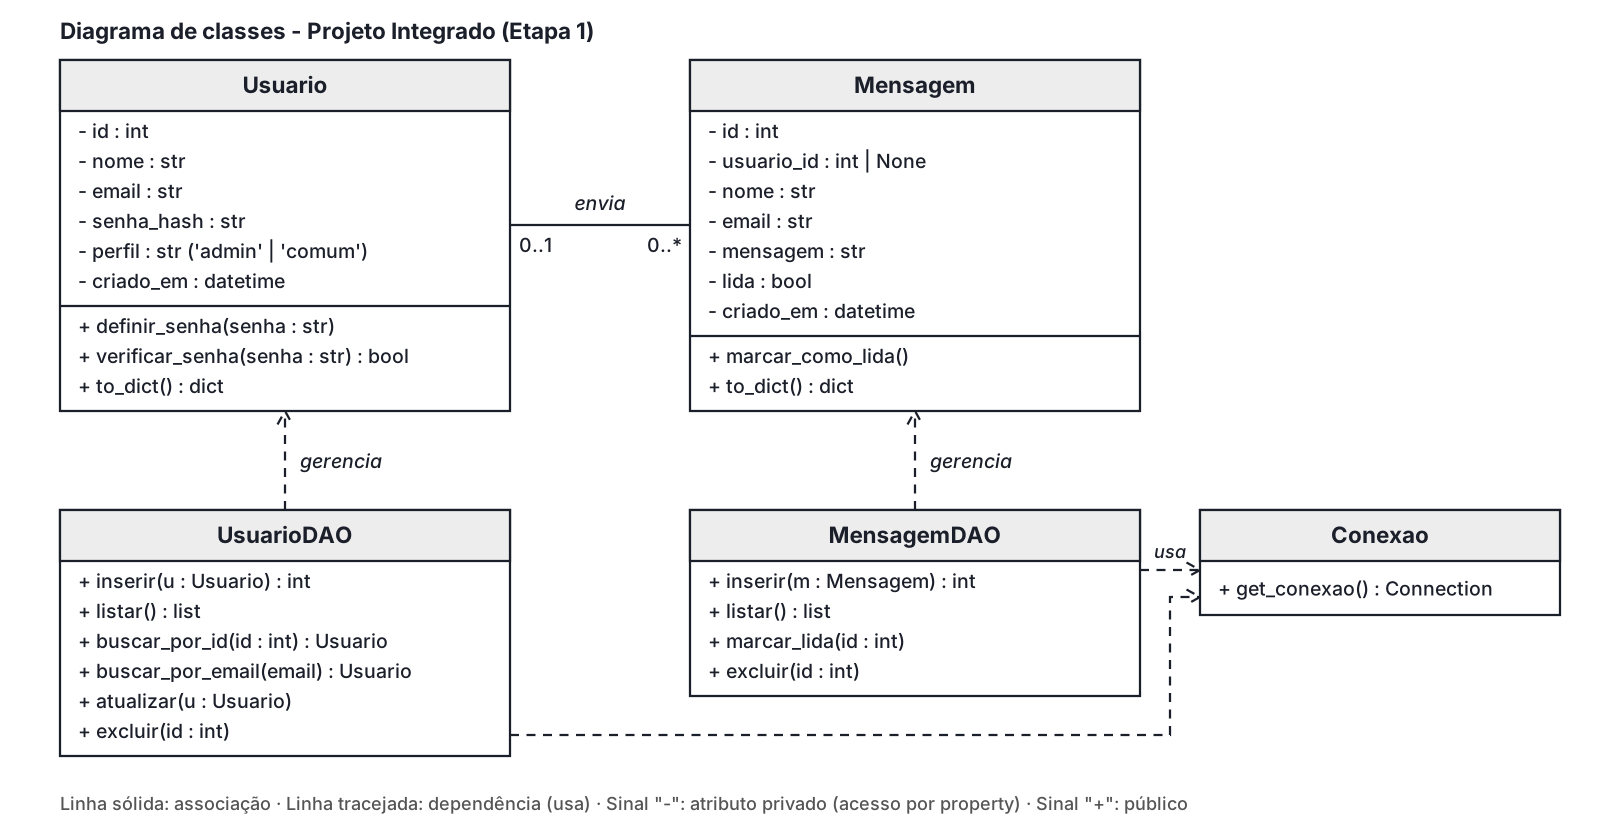
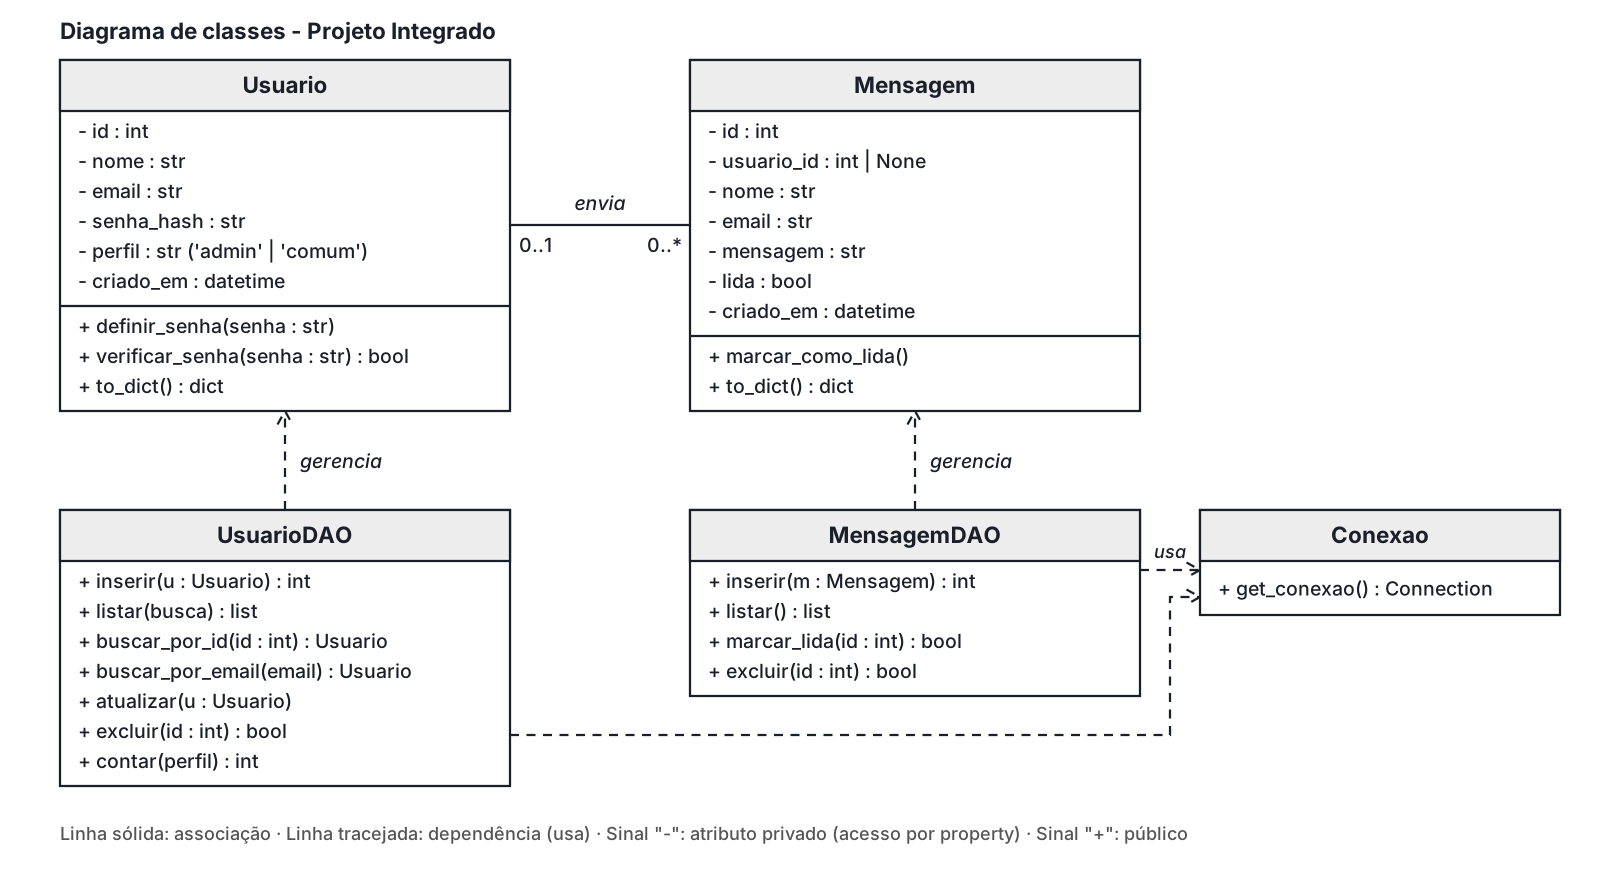
Atualiza UML e README

diff --git a/README.md b/README.md
@@ -1,15 +1,16 @@
 # Portfólio Bernardo — Projeto Integrado (DWS + POO + BD)
 
-Site pessoal com back-end em Python (Flask, programação orientada a objetos) e banco de dados MySQL.
+Site pessoal com back-end em Python (Flask, programação orientada a objetos com DAOs) e banco de dados MySQL.
+O front-end (HTML, CSS e JavaScript) conversa com a API em JSON usando Fetch.
 Projeto individual do Colégio UNASP-HT, Técnico em Informática (2º TI).
 
 ## Status das etapas
 
 | Etapa | Prazo | Situação |
 |---|---|---|
-| 1 — Modelagem e banco de dados | 09/11/2026 | Concluída: UML, tabelas e conexão inicial |
-| 2 — Back-end (classes, DAOs e rotas Flask) | 13/11/2026 | Em andamento |
-| Final — Front-end com Fetch | 17/11/2026 | Pendente |
+| 1 — Modelagem e banco de dados | 09/11/2026 | Concluída: UML, tabelas e conexão |
+| 2 — Back-end (classes, DAOs e rotas Flask) | 13/11/2026 | Concluída: CRUD de usuários e mensagens, login |
+| Final — Front-end com Fetch | 17/11/2026 | Concluída: páginas consumindo a API |
 
 ## Modelo de dados
 
@@ -22,25 +23,27 @@ Diagrama de classes: [docs/diagrama_classes.svg](docs/diagrama_classes.svg)
 | `usuarios` | id, nome, email (único), senha_hash, perfil (`admin` ou `comum`), criado_em |
 | `mensagens` | id, usuario_id (opcional, chave estrangeira para `usuarios`), nome, email, mensagem, lida, criado_em |
 
-Relacionamento: um usuário pode enviar várias mensagens (0..*), e uma mensagem pode ou não ter usuário (0..1).
-Ao excluir um usuário, as mensagens dele ficam no banco com `usuario_id` nulo.
+Um usuário pode enviar várias mensagens (0..*), e uma mensagem pode ou não ter usuário (0..1).
+Ao excluir um usuário, as mensagens dele ficam no banco com `usuario_id` nulo (`ON DELETE SET NULL`).
 
-As senhas nunca são guardadas em texto puro: a classe `Usuario` gera e confere o hash (Werkzeug).
-
-## Estrutura do projeto
+## Como o back-end está organizado
 
 ```
-├── app.py                 aplicação Flask (rota /api/saude)
+├── app.py                 cria o Flask, registra as rotas e serve o site
 ├── config.py              leitura do arquivo .env
-├── criar_banco.py         cria o banco e as tabelas a partir do schema.sql
+├── criar_banco.py         cria o banco/tabelas (e atualiza tabela antiga da fase PHP)
 ├── testar_conexao.py      confere a conexão e lista as tabelas
 ├── schema.sql             estrutura do banco de dados
-├── models/                classes do domínio (Usuario, Mensagem)
-├── dao/                   acesso ao banco (conexao.py; DAOs na Etapa 2)
-├── docs/                  diagrama de classes (UML)
-├── requirements.txt
-└── .env.example           modelo das configurações do banco
+├── models/                classes do domínio com validação (Usuario, Mensagem)
+├── dao/                   acesso ao banco: conexao.py, usuario_dao.py, mensagem_dao.py
+├── rotas/                 rotas Flask por assunto (auth, usuarios, mensagens, times, sistema)
+├── index.html, pages/     páginas do site
+├── css/, js/, img/        estilos, scripts (Fetch) e imagens
+└── docs/                  diagrama de classes (UML)
 ```
+
+Camadas: **rota** (recebe e responde JSON) → **model** (valida os dados) → **DAO** (único lugar com SQL).
+Todas as consultas usam parâmetros (`%s`), nunca concatenação de texto.
 
 ## Como rodar
 
@@ -55,9 +58,9 @@ pip install -r requirements.txt
 
 # 2. Configuração do banco
 copy .env.example .env         # Windows (Linux/Mac: cp .env.example .env)
-# edite o .env com o usuário e a senha do seu MySQL
+# edite o .env com o usuário e a senha do seu MySQL e troque a SECRET_KEY
 
-# 3. Criar banco e tabelas
+# 3. Criar banco e tabelas (pode rodar de novo sem perder dados)
 python criar_banco.py
 
 # 4. Testar a conexão
@@ -65,11 +68,55 @@ python testar_conexao.py
 
 # 5. Subir o servidor
 python app.py
-# abra http://127.0.0.1:5000/api/saude
 ```
 
-Resposta esperada em `/api/saude`: `{"banco": "conectado", "status": "ok"}`.
+Abra **http://127.0.0.1:5000/** no navegador (não abra os arquivos .html com dois cliques: o site precisa ser aberto pelo Flask).
+
+O **primeiro usuário cadastrado vira administrador**. Os próximos são usuários comuns; o administrador pode mudar o perfil deles.
+
+## Páginas
+
+| Página | Quem acessa | O que faz |
+|---|---|---|
+| `/` , `/pages/sobre.html` | todos | apresentação e busca de time de futebol |
+| `/pages/contato.html` | todos | envia mensagem (salva no banco) |
+| `/pages/cadastro.html` | todos | cria conta (Create) |
+| `/pages/login.html` | todos | entra no sistema |
+| `/pages/dashboard.html` | logado | boas-vindas, atalhos e resumo (admin) |
+| `/pages/editar.html?id=` | logado | edita o próprio perfil; admin edita qualquer um (Update) |
+| `/pages/usuarios.html` | admin | lista, busca e exclui usuários (Read e Delete) |
+| `/pages/mensagens.html` | admin | lê, marca como lida e exclui mensagens |
+
+## Rotas da API (JSON)
+
+| Método e rota | Acesso | O que faz |
+|---|---|---|
+| `POST /api/usuarios` | público | cadastra usuário |
+| `GET /api/usuarios?busca=` | admin | lista usuários (busca por nome ou e-mail) |
+| `GET /api/usuarios/<id>` | o próprio ou admin | mostra um usuário |
+| `PUT /api/usuarios/<id>` | o próprio ou admin | atualiza (só admin muda o perfil, nunca o próprio) |
+| `DELETE /api/usuarios/<id>` | admin | exclui (não pode excluir a si mesmo) |
+| `POST /api/login` | público | inicia a sessão |
+| `POST /api/logout` | público | encerra a sessão |
+| `GET /api/me` | logado | dados de quem está logado |
+| `POST /api/mensagens` | público | envia mensagem de contato |
+| `GET /api/mensagens` | admin | lista mensagens |
+| `PATCH /api/mensagens/<id>/lida` | admin | marca como lida |
+| `DELETE /api/mensagens/<id>` | admin | exclui mensagem |
+| `GET /api/times?nome=` | público | busca time na TheSportsDB (o Flask faz a consulta) |
+| `GET /api/saude` | público | confere a conexão com o banco |
+
+Códigos usados: 200 e 201 (sucesso), 400 (dados inválidos), 401 (não logado), 403 (sem permissão),
+404 (não encontrado), 409 (e-mail já cadastrado), 502 (serviço externo fora do ar).
+
+## Segurança
+
+- Senhas guardadas só como hash (Werkzeug); a resposta da API nunca devolve a senha.
+- Consultas SQL parametrizadas; textos exibidos no site com `textContent` (sem injeção de HTML).
+- Sessão por cookie assinado (`HttpOnly`, `SameSite=Lax`); rotas que alteram dados só aceitam JSON.
+- Permissões conferidas no servidor (a tela escondida não protege nada sozinha).
+- O arquivo `.env` (senha do banco) não vai para o GitHub.
 
 ## Tecnologias
 
-Python, Flask, MySQL, mysql-connector-python, HTML, CSS e JavaScript.
+Python, Flask, MySQL, mysql-connector-python, HTML, CSS e JavaScript (Fetch).
